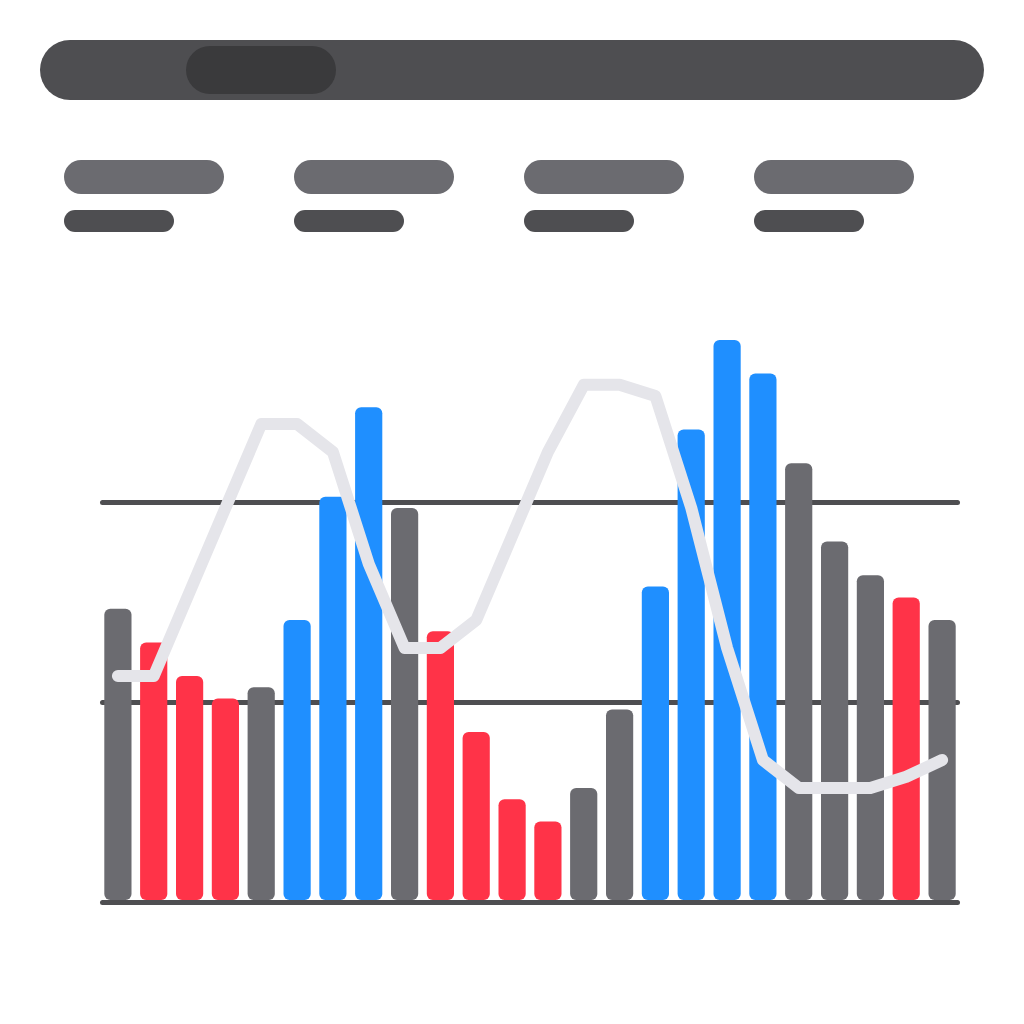
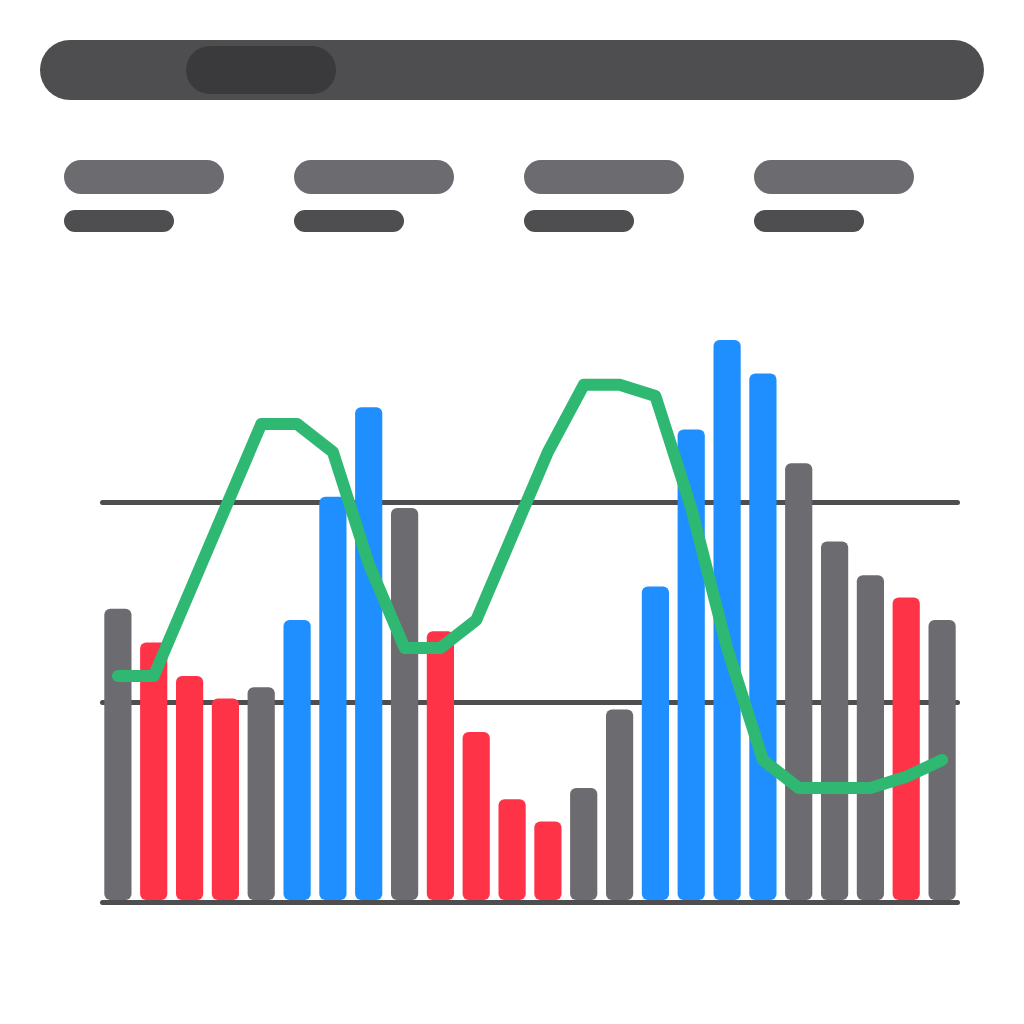
new color scheme

diff --git a/lib/charts/ChargeChart.js b/lib/charts/ChargeChart.js
@@ -20,14 +20,11 @@ along with com.gruijter.powerhour.  If not, see <http://www.gnu.org/licenses/>.
 'use strict';
 
 const {
-  hourLabels, slotTimes, nowLineAnnotation, LEGEND_FILTER, withLegendFilter,
+  hourLabels, slotTimes, nowLineAnnotation, LEGEND_FILTER, withLegendFilter, splitBySign,
 } = require('./ChartHelpers');
 const { color, PALE, powerAlpha } = require('./Palette');
 
-const POWER_LINE = 'rgba(255, 255, 255, 0.8)';
-const POWER_LINE_PLANNED = 'rgba(255, 255, 255, 0.5)';
-const POWER_FILL = 'rgba(255, 255, 255, 0.08)';
-const SOC_LINE = 'rgba(255, 255, 255, 0.9)';
+const POWER_TICKS = 'rgba(255, 255, 255, 0.8)';
 const actionColor = (key, alpha = 1) => {
   if (key === 'charge' || key === 'chargeEv') return color('use', alpha);
   if (key === 'discharge' || key === 'dischargeEv') return color('export', alpha);
@@ -81,6 +78,7 @@ const getChargeChart = async (
   showSoc = true,
   showExportPrice = true,
   showLegend = false,
+  device = 'battery',
 ) => {
   try {
     if (!plan || !plan.scheme) throw Error('plan input is invalid');
@@ -184,48 +182,31 @@ const getChargeChart = async (
     })) : [];
     const height = 320;
     const width = 427;
-    const powerDatasets = showPower ? [
-      {
-        label: '',
-        type: 'line',
-        data: plannedPowerData,
-        borderColor: POWER_LINE_PLANNED,
-        borderDash: [5, 5],
-        borderWidth: 2,
-        backgroundColor: POWER_FILL,
-        pointRadius: 0,
-        fill: true,
-        stepped: 'middle',
-        yAxisID: 'yPower',
-        order: 3,
-        datalabels: {
-          display: false,
-        },
+    const powerLine = (data, planned) => splitBySign(data).map(([part, name]) => ({
+      label: '',
+      type: 'line',
+      data: part,
+      borderColor: color(name, planned ? 0.7 : 1),
+      borderDash: planned ? [5, 5] : [],
+      borderWidth: planned ? 2 : 3,
+      backgroundColor: planned ? color(name, 0.12) : 'transparent',
+      pointRadius: 0,
+      fill: planned ? 'origin' : false,
+      stepped: 'middle',
+      spanGaps: false,
+      yAxisID: 'yPower',
+      order: planned ? 3 : 1,
+      datalabels: {
+        display: false,
       },
-      {
-        label: '',
-        type: 'line',
-        data: actualPowerData,
-        borderColor: POWER_LINE,
-        borderWidth: 3,
-        backgroundColor: 'transparent',
-        pointRadius: 0,
-        fill: false,
-        stepped: 'middle',
-        spanGaps: true,
-        yAxisID: 'yPower',
-        order: 1,
-        datalabels: {
-          display: false,
-        },
-      },
-    ] : [];
+    }));
+    const powerDatasets = showPower ? [...powerLine(plannedPowerData, true), ...powerLine(actualPowerData, false)] : [];
     const socDatasets = showSoc ? [
       {
         label: '',
         type: 'line',
         data: realSocData,
-        borderColor: SOC_LINE,
+        borderColor: color(device),
         borderWidth: 3,
         backgroundColor: 'transparent',
         pointRadius: 0,
@@ -239,7 +220,7 @@ const getChargeChart = async (
         label: '',
         type: 'line',
         data: forecastSocData,
-        borderColor: 'rgba(255, 255, 255, 0.55)',
+        borderColor: color(device, 0.7),
         borderDash: [5, 5],
         borderWidth: 2,
         backgroundColor: 'transparent',
@@ -360,7 +341,7 @@ const getChargeChart = async (
             max: 100,
             ticks: {
               font: { size: 14 },
-              color: SOC_LINE,
+              color: color(device),
               padding: 2,
             },
             title: {
@@ -377,7 +358,7 @@ const getChargeChart = async (
             suggestedMax: suggestedMaxPower,
             ticks: {
               font: { size: 14 },
-              color: POWER_LINE,
+              color: POWER_TICKS,
               padding: 2,
             },
             title: {

diff --git a/tools/widget-preview/gen.js b/tools/widget-preview/gen.js
@@ -6,10 +6,10 @@ const path = require('path');
 // Guideline 1.10: transparent background, simple shapes, no text, few colours.
 const THEMES = {
   light: {
-    card: '#FFFFFF', shape: '#D6DAE2', track: '#E4E7EC', soc: '#5D6676', shadow: 'rgba(17,24,39,0.13)',
+    card: '#FFFFFF', shape: '#D6DAE2', track: '#E4E7EC', shadow: 'rgba(17,24,39,0.13)',
   },
   dark: {
-    card: '#3A3A3C', shape: '#6B6B70', track: '#4E4E51', soc: '#E5E5EA', shadow: 'rgba(0,0,0,0.55)',
+    card: '#3A3A3C', shape: '#6B6B70', track: '#4E4E51', shadow: 'rgba(0,0,0,0.55)',
   },
 };
 
@@ -18,6 +18,8 @@ const GREEN = '#34C759';
 const CHEAP = '#22C55E';
 const DEAR = '#B04DFF';
 const USE = '#FF3348';
+const BATTERY = '#2EB872';
+const EV = '#8E6CEF';
 const EXPORT = '#1F8FFF';
 
 const pill = (x, y, w, h, fill) => `<rect x="${x}" y="${y}" width="${w}" height="${h}" rx="${h / 2}" fill="${fill}"/>`;
@@ -82,7 +84,7 @@ const plan = (t) => {
   <rect x="${x0}" y="${lane(i) + 150}" width="${x1 - x0}" height="6" rx="3" fill="${t.track}"/>`).join('\n  ')}
   ${bars(lane(0), price, priceFill)}
   ${bars(lane(1), solar, SOLAR)}
-  <polyline points="${socLine(lane(2))}" fill="none" stroke="${t.soc}" stroke-width="12" stroke-linejoin="round" stroke-linecap="round"/>
+  <polyline points="${socLine(lane(2))}" fill="none" stroke="${BATTERY}" stroke-width="12" stroke-linejoin="round" stroke-linecap="round"/>
   ${[[2, 4], [7, 10]].map(([a, b]) => `<rect x="${x0 + a * 40.75}" y="${lane(2) + 128}" width="${(b - a) * 40.75}" height="22" rx="11" fill="${USE}"/>`).join('')}
   ${bars(lane(3), load, t.shape)}
   <rect x="${x0 + 238}" y="120" width="8" height="${lane(3) + 186 - 120}" rx="4" fill="${t.shape}"/>
@@ -171,7 +173,7 @@ const batteryPreview = (t) => {
   ${[0, 1, 2, 3].map((i) => `${pill(64 + i * 230, 160, 160, 34, t.shape)}${pill(64 + i * 230, 210, 110, 22, t.track)}`).join('')}
   ${[0, 1, 2].map((i) => `<rect x="${x0}" y="${base - i * 200}" width="${x1 - x0}" height="5" rx="2.5" fill="${t.track}"/>`).join('')}
   ${bars}
-  <polyline points="${line}" fill="none" stroke="${t.soc}" stroke-width="12" stroke-linejoin="round" stroke-linecap="round"/>
+  <polyline points="${line}" fill="none" stroke="${BATTERY}" stroke-width="12" stroke-linejoin="round" stroke-linecap="round"/>
 </svg>`;
 };
 
@@ -218,7 +220,7 @@ const evPreview = (t) => {
   ${[0, 1, 2, 3].map((i) => `${pill(64 + i * 230, 160, 160, 34, t.shape)}${pill(64 + i * 230, 210, 110, 22, t.track)}`).join('')}
   ${[0, 1, 2].map((i) => `<rect x="${x0}" y="${base - i * 200}" width="${x1 - x0}" height="5" rx="2.5" fill="${t.track}"/>`).join('')}
   ${bars}
-  <polyline points="${line}" fill="none" stroke="${t.soc}" stroke-width="12" stroke-linejoin="round" stroke-linecap="round"/>
+  <polyline points="${line}" fill="none" stroke="${EV}" stroke-width="12" stroke-linejoin="round" stroke-linecap="round"/>
 </svg>`;
 };
 

diff --git a/tools/widget-shared/charge.html b/tools/widget-shared/charge.html
@@ -52,6 +52,7 @@
     var PALE = 0.4; // expected / estimated
     var SHARE = 0.5; // one price scale for the days, unless a day would fill less than this share of it
     // The palette colour of a plan action (ChargeChart actionColor()).
+    var COLOR = KIND === 'ev' ? '--c-ev' : '--c-battery';
     var ACTION_COLOR = {
       charge: '--c-use', chargeEv: '--c-use', discharge: '--c-export', dischargeEv: '--c-export',
       xom: '--c-xom', hold: '--c-hold', idle: '--c-idle',
@@ -338,7 +339,7 @@
           list.forEach(function (s, k) { if (typeof s === 'number') pts.push((X0 + (k + 0.5) * sw).toFixed(1) + ',' + ys(s).toFixed(1)); });
           if (pts.length > 1) {
             el('polyline', {
-              points: pts.join(' '), fill: 'none', stroke: 'var(--text)', 'stroke-width': dash ? 1.5 : 2, 'stroke-dasharray': dash ? '4 3' : 'none', 'stroke-linejoin': 'round',
+              points: pts.join(' '), fill: 'none', stroke: 'var(' + COLOR + ')', 'stroke-width': dash ? 1.5 : 2, 'stroke-dasharray': dash ? '4 3' : 'none', 'stroke-linejoin': 'round',
             }, svg);
           }
           return pts.length ? pts[pts.length - 1] : null;
@@ -357,7 +358,7 @@
         ACTIONS.forEach(function (a) { if (used[a]) items.push([actionName(a), ACTION_COLOR[a]]); });
         if (d.forecast.some(Boolean)) items.push([t('expected'), '--c-idle', PALE]);
         if (path) items.push([t('export_price'), '--c-export', 'line']);
-        if (d.soc.concat(d.socPlan).some(function (s) { return typeof s === 'number'; })) items.push(['SoC', '--text', 'line']);
+        if (d.soc.concat(d.socPlan).some(function (s) { return typeof s === 'number'; })) items.push(['SoC', COLOR, 'line']);
         drawLegend(items);
         chart = {
           n: n, sw: sw, bottom: bottom, sel: el('g', {}, svg), nowIdx: nowIdx, ok: function (k) { return typeof d.price[k] === 'number'; },

diff --git a/widgets/battery/public/index.html b/widgets/battery/public/index.html
@@ -53,6 +53,7 @@
     var PALE = 0.4; // expected / estimated
     var SHARE = 0.5; // one price scale for the days, unless a day would fill less than this share of it
     // The palette colour of a plan action (ChargeChart actionColor()).
+    var COLOR = KIND === 'ev' ? '--c-ev' : '--c-battery';
     var ACTION_COLOR = {
       charge: '--c-use', chargeEv: '--c-use', discharge: '--c-export', dischargeEv: '--c-export',
       xom: '--c-xom', hold: '--c-hold', idle: '--c-idle',
@@ -339,7 +340,7 @@
           list.forEach(function (s, k) { if (typeof s === 'number') pts.push((X0 + (k + 0.5) * sw).toFixed(1) + ',' + ys(s).toFixed(1)); });
           if (pts.length > 1) {
             el('polyline', {
-              points: pts.join(' '), fill: 'none', stroke: 'var(--text)', 'stroke-width': dash ? 1.5 : 2, 'stroke-dasharray': dash ? '4 3' : 'none', 'stroke-linejoin': 'round',
+              points: pts.join(' '), fill: 'none', stroke: 'var(' + COLOR + ')', 'stroke-width': dash ? 1.5 : 2, 'stroke-dasharray': dash ? '4 3' : 'none', 'stroke-linejoin': 'round',
             }, svg);
           }
           return pts.length ? pts[pts.length - 1] : null;
@@ -358,7 +359,7 @@
         ACTIONS.forEach(function (a) { if (used[a]) items.push([actionName(a), ACTION_COLOR[a]]); });
         if (d.forecast.some(Boolean)) items.push([t('expected'), '--c-idle', PALE]);
         if (path) items.push([t('export_price'), '--c-export', 'line']);
-        if (d.soc.concat(d.socPlan).some(function (s) { return typeof s === 'number'; })) items.push(['SoC', '--text', 'line']);
+        if (d.soc.concat(d.socPlan).some(function (s) { return typeof s === 'number'; })) items.push(['SoC', COLOR, 'line']);
         drawLegend(items);
         chart = {
           n: n, sw: sw, bottom: bottom, sel: el('g', {}, svg), nowIdx: nowIdx, ok: function (k) { return typeof d.price[k] === 'number'; },

diff --git a/widgets/ev/public/index.html b/widgets/ev/public/index.html
@@ -53,6 +53,7 @@
     var PALE = 0.4; // expected / estimated
     var SHARE = 0.5; // one price scale for the days, unless a day would fill less than this share of it
     // The palette colour of a plan action (ChargeChart actionColor()).
+    var COLOR = KIND === 'ev' ? '--c-ev' : '--c-battery';
     var ACTION_COLOR = {
       charge: '--c-use', chargeEv: '--c-use', discharge: '--c-export', dischargeEv: '--c-export',
       xom: '--c-xom', hold: '--c-hold', idle: '--c-idle',
@@ -339,7 +340,7 @@
           list.forEach(function (s, k) { if (typeof s === 'number') pts.push((X0 + (k + 0.5) * sw).toFixed(1) + ',' + ys(s).toFixed(1)); });
           if (pts.length > 1) {
             el('polyline', {
-              points: pts.join(' '), fill: 'none', stroke: 'var(--text)', 'stroke-width': dash ? 1.5 : 2, 'stroke-dasharray': dash ? '4 3' : 'none', 'stroke-linejoin': 'round',
+              points: pts.join(' '), fill: 'none', stroke: 'var(' + COLOR + ')', 'stroke-width': dash ? 1.5 : 2, 'stroke-dasharray': dash ? '4 3' : 'none', 'stroke-linejoin': 'round',
             }, svg);
           }
           return pts.length ? pts[pts.length - 1] : null;
@@ -358,7 +359,7 @@
         ACTIONS.forEach(function (a) { if (used[a]) items.push([actionName(a), ACTION_COLOR[a]]); });
         if (d.forecast.some(Boolean)) items.push([t('expected'), '--c-idle', PALE]);
         if (path) items.push([t('export_price'), '--c-export', 'line']);
-        if (d.soc.concat(d.socPlan).some(function (s) { return typeof s === 'number'; })) items.push(['SoC', '--text', 'line']);
+        if (d.soc.concat(d.socPlan).some(function (s) { return typeof s === 'number'; })) items.push(['SoC', COLOR, 'line']);
         drawLegend(items);
         chart = {
           n: n, sw: sw, bottom: bottom, sel: el('g', {}, svg), nowIdx: nowIdx, ok: function (k) { return typeof d.price[k] === 'number'; },

diff --git a/lib/helpers/ChargeDeviceHelpers.js b/lib/helpers/ChargeDeviceHelpers.js
@@ -539,6 +539,7 @@ module.exports = {
     const currentSlotStartMs = todayStartMs + (currentSlotInDay * intervalMs);
     const todayDateStr = nowLocal.toDateString();
 
+    const chartDevice = this.driver.id === 'evCharger' ? 'ev' : 'battery';
     const draw = async () => {
       const { currency } = MoneyUnit.get(this);
       if (!this.chartDays) this.chartDays = {};
@@ -631,6 +632,7 @@ module.exports = {
         showSoc,
         showExportPrice,
         showLegend,
+        chartDevice,
       );
 
       this.chartTodayCharge = chartToday;
@@ -679,6 +681,7 @@ module.exports = {
           showSoc,
           showExportPrice,
           showLegend,
+          chartDevice,
         );
 
         this.chartTomorrowCharge = chartTomorrow;
@@ -713,6 +716,7 @@ module.exports = {
         showSoc,
         showExportPrice,
         showLegend,
+        chartDevice,
       );
       this.chartNextHoursCharge = chartNextHours;
       keep('next', scheme, currentSlotStartMs, marketLength, toPlanSlots(fromNow.exportPrices));
@@ -760,6 +764,7 @@ module.exports = {
           showSoc,
           showExportPrice,
           showLegend,
+          chartDevice,
         );
 
         this.chartYesterdayCharge = chartYesterday;

diff --git a/lib/charts/GridChart.js b/lib/charts/GridChart.js
@@ -20,7 +20,7 @@ along with com.gruijter.powerhour.  If not, see <http://www.gnu.org/licenses/>.
 'use strict';
 
 const { findClosestSample } = require('../helpers/HistoryLookup');
-const { hourLabels, nowLineAnnotation } = require('./ChartHelpers');
+const { hourLabels, nowLineAnnotation, splitBySign } = require('./ChartHelpers');
 const TimeHelpers = require('../helpers/TimeHelpers');
 const { color, PALE } = require('./Palette');
 
@@ -99,18 +99,18 @@ const getGridForecastChart = async (weeklyProfile, startTm, endTm, title, realPo
           barPercentage: 1.0,
           categoryPercentage: 1.0,
         },
-        {
+        ...(signed ? splitBySign(realData) : [[realData, 'use']]).map(([data, name]) => ({
           label: 'Real (W)',
           backgroundColor: 'transparent',
-          borderColor: signed ? 'rgba(255, 255, 255, 0.8)' : color('use'),
+          borderColor: color(name),
           borderWidth: 2,
           pointRadius: 0,
-          data: realData,
+          data,
           fill: false,
           type: 'line',
           cubicInterpolationMode: 'monotone',
-          spanGaps: true,
-        },
+          spanGaps: !signed,
+        })),
       ],
     },
     options: {

diff --git a/lib/charts/ChartHelpers.js b/lib/charts/ChartHelpers.js
@@ -59,6 +59,27 @@ const LEGEND_FILTER = '__legendFilter__';
 const withLegendFilter = (chart) => JSON.stringify(chart)
   .replace(`"${LEGEND_FILTER}"`, 'function (item) { return !!item.text; }');
 
+const fillGaps = (values) => {
+  const known = values.map((v, i) => (v === null ? -1 : i)).filter((i) => i >= 0);
+  const out = values.slice();
+  for (let k = 1; k < known.length; k += 1) {
+    const [i0, i1] = [known[k - 1], known[k]];
+    for (let i = i0 + 1; i < i1; i += 1) out[i] = values[i0] + ((values[i1] - values[i0]) * (i - i0)) / (i1 - i0);
+  }
+  return out;
+};
+
+const splitBySign = (values) => {
+  const v = fillGaps(values);
+  const side = (keep) => v.map((x, i) => {
+    if (x === null) return null;
+    if (keep(x)) return x;
+    const near = [v[i - 1], v[i + 1]].some((n) => typeof n === 'number' && keep(n));
+    return near ? 0 : null;
+  });
+  return [[side((x) => x > 0), 'use'], [side((x) => x < 0), 'export']];
+};
+
 module.exports = {
-  thinLabels, hourLabels, slotTimes, nowIndex, nowLineAnnotation, LEGEND_FILTER, withLegendFilter,
+  splitBySign, thinLabels, hourLabels, slotTimes, nowIndex, nowLineAnnotation, LEGEND_FILTER, withLegendFilter,
 };

diff --git a/widgets/plan/public/index.html b/widgets/plan/public/index.html
@@ -340,9 +340,9 @@
             var line = pts.map(function (p) { return p[0].toFixed(1) + ',' + p[1].toFixed(1); }).join(' ');
             el('polygon', {
               points: pts[0][0].toFixed(1) + ',' + socBottom + ' ' + line + ' ' + pts[pts.length - 1][0].toFixed(1) + ',' + socBottom,
-              fill: 'var(--text)', opacity: 0.1,
+              fill: color, opacity: 0.15,
             }, g);
-            el('polyline', { points: line, fill: 'none', stroke: 'var(--text)', 'stroke-width': 1.5, 'stroke-linejoin': 'round' }, g);
+            el('polyline', { points: line, fill: 'none', stroke: color, 'stroke-width': 1.5, 'stroke-linejoin': 'round' }, g);
           }
         } else {
           el('path', { d: stepPath(vals, sw, socBottom, socBottom - top, Math.max.apply(null, vals) || 1), fill: 'var(--c-use)', opacity: 0.85 }, g);

diff --git a/lib/charts/SolarChart.js b/lib/charts/SolarChart.js
@@ -218,8 +218,8 @@ const getDistributionChart = async (yieldFactors, title, timezone = 'UTC', train
   if (confidenceData) {
     datasets.push({
       label: modelFitLabel,
-      borderColor: 'rgba(255, 255, 255, 0.6)',
-      backgroundColor: 'rgba(255, 255, 255, 0)',
+      borderColor: color('solar'),
+      backgroundColor: 'transparent',
       borderWidth: 1.5,
       borderDash: [3, 3],
       pointRadius: 0,
@@ -303,7 +303,7 @@ const getDistributionChart = async (yieldFactors, title, timezone = 'UTC', train
             scaleLabel: {
               display: true,
               labelString: modelFitLabel,
-              fontColor: 'rgba(255, 255, 255, 0.6)',
+              fontColor: color('solar'),
               fontSize: 14,
             },
           }] : []),

diff --git a/lib/charts/ApplianceChart.js b/lib/charts/ApplianceChart.js
@@ -110,8 +110,8 @@ const getApplianceProgramChart = (profile, lastRun, labels) => {
       datasets: [
         last.length && {
           label: labels.last,
-          borderColor: 'rgba(255, 255, 255, 0.8)',
-          backgroundColor: 'rgba(255, 255, 255, 0.8)',
+          borderColor: color('use'),
+          backgroundColor: color('use'),
           borderWidth: 2,
           pointRadius: 0,
           data: last,
